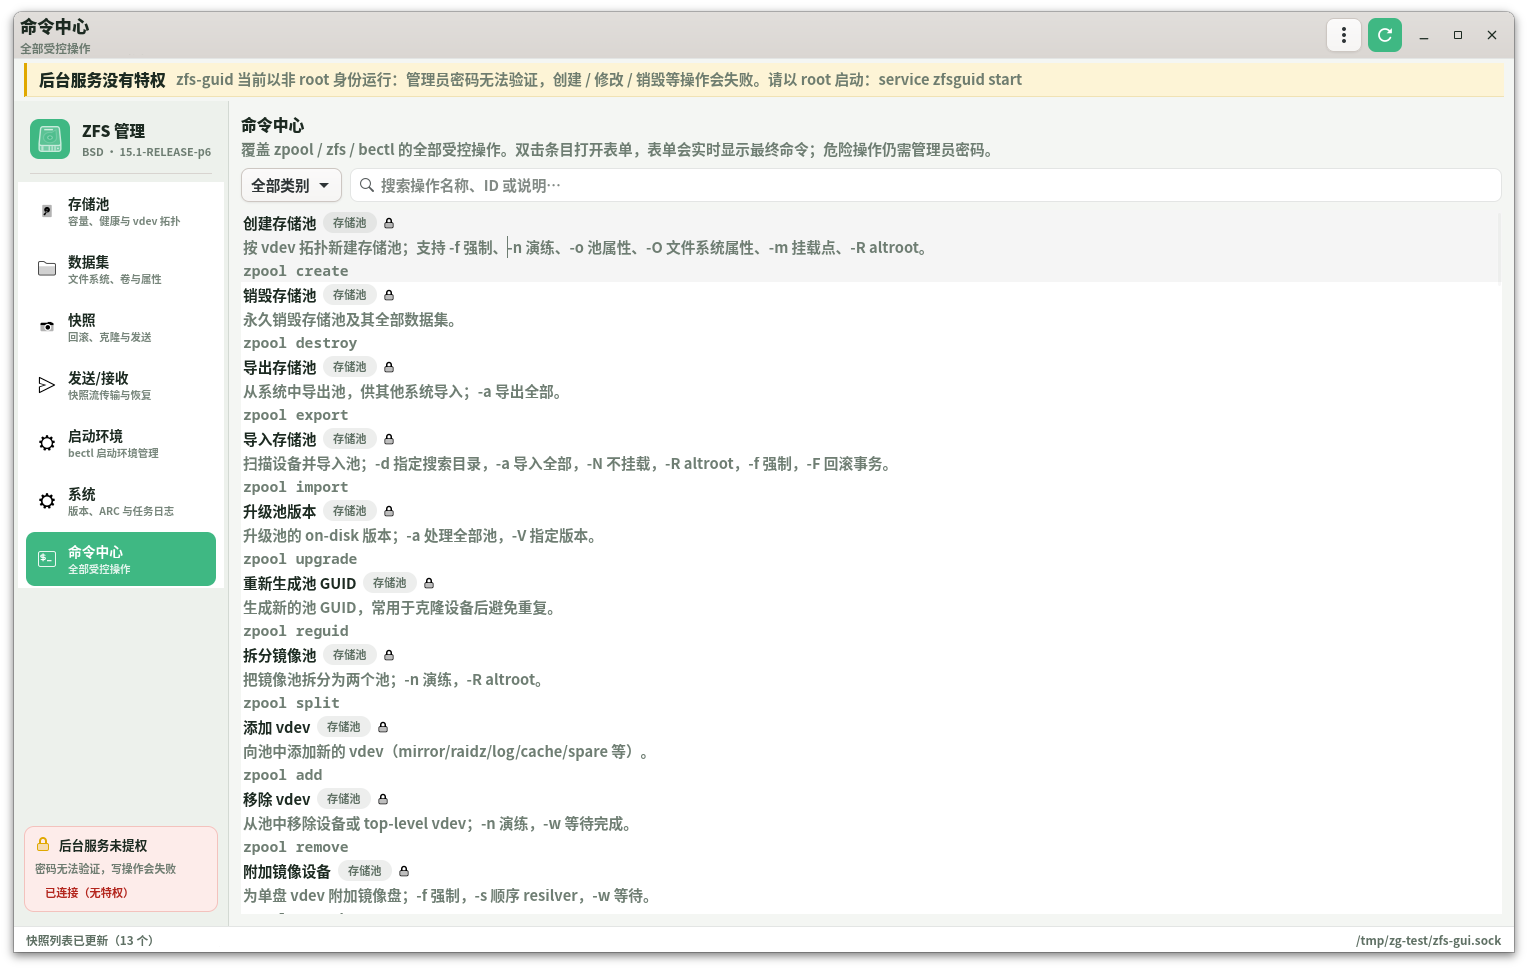
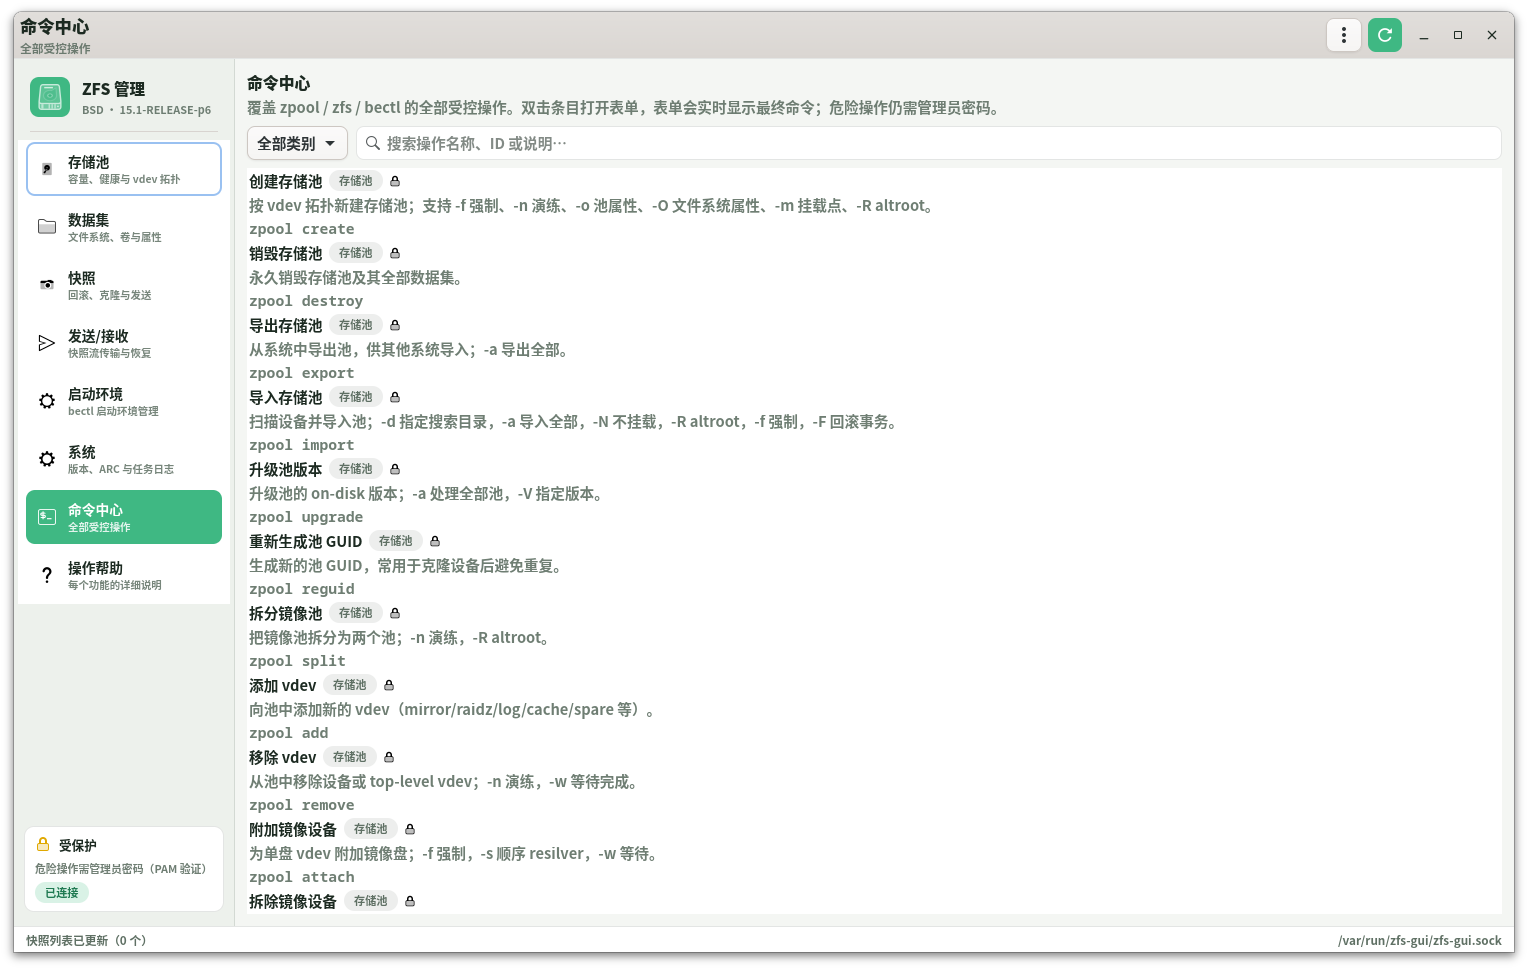
docs: 补充各功能页截图与界面预览

Changed region(s): [[0.0, 0.0619, 0.9843, 0.9598], [0.892, 0.9598, 0.9843, 0.9907]]

diff --git a/README.md b/README.md
@@ -16,8 +16,19 @@
                                                         └────────────────────────┘
 ```
 
-![界面总览](docs/screenshot-light.png)
-![数据集对象操作](docs/screenshot-datasets.png)
+## 界面预览
+
+| 存储池 | 数据集 |
+| --- | --- |
+| ![存储池](docs/screenshot-pools.png) | ![数据集](docs/screenshot-datasets.png) |
+| **快照** | **发送 / 接收（实时备份进度）** |
+| ![快照](docs/screenshot-snapshots.png) | ![发送 / 接收](docs/screenshot-sendrecv.png) |
+| **启动环境（bectl）** | **系统（版本 / ARC / 任务日志）** |
+| ![启动环境](docs/screenshot-be.png) | ![系统](docs/screenshot-system.png) |
+| **命令中心（87 项受控操作）** | **操作帮助（全部功能说明）** |
+| ![命令中心](docs/screenshot-command-center.png) | ![操作帮助](docs/screenshot-help.png) |
+
+> 截图使用 Adwaita 浅色主题、全局粗体；界面文字为中文。
 
 ---
 
